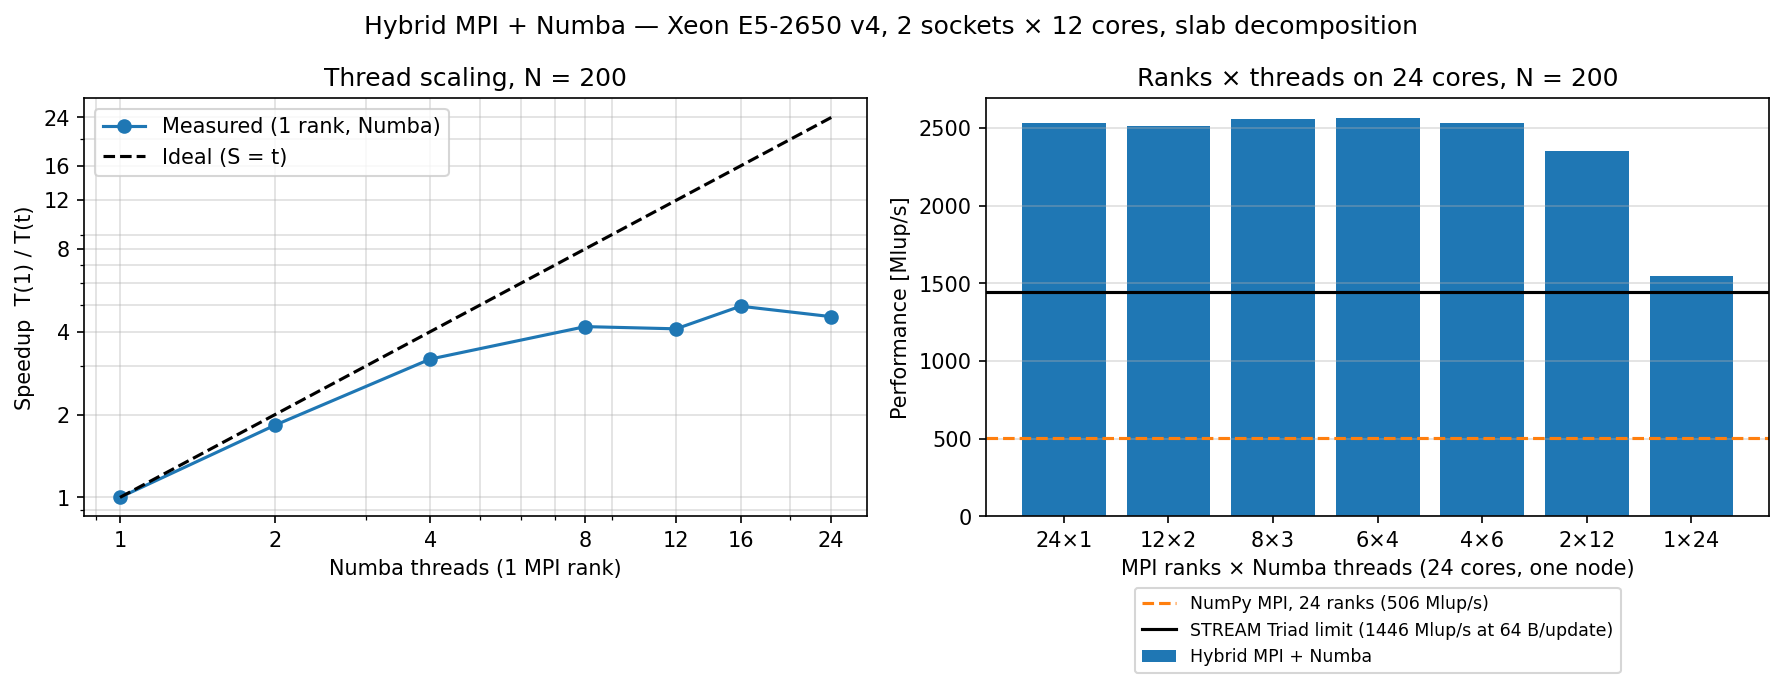
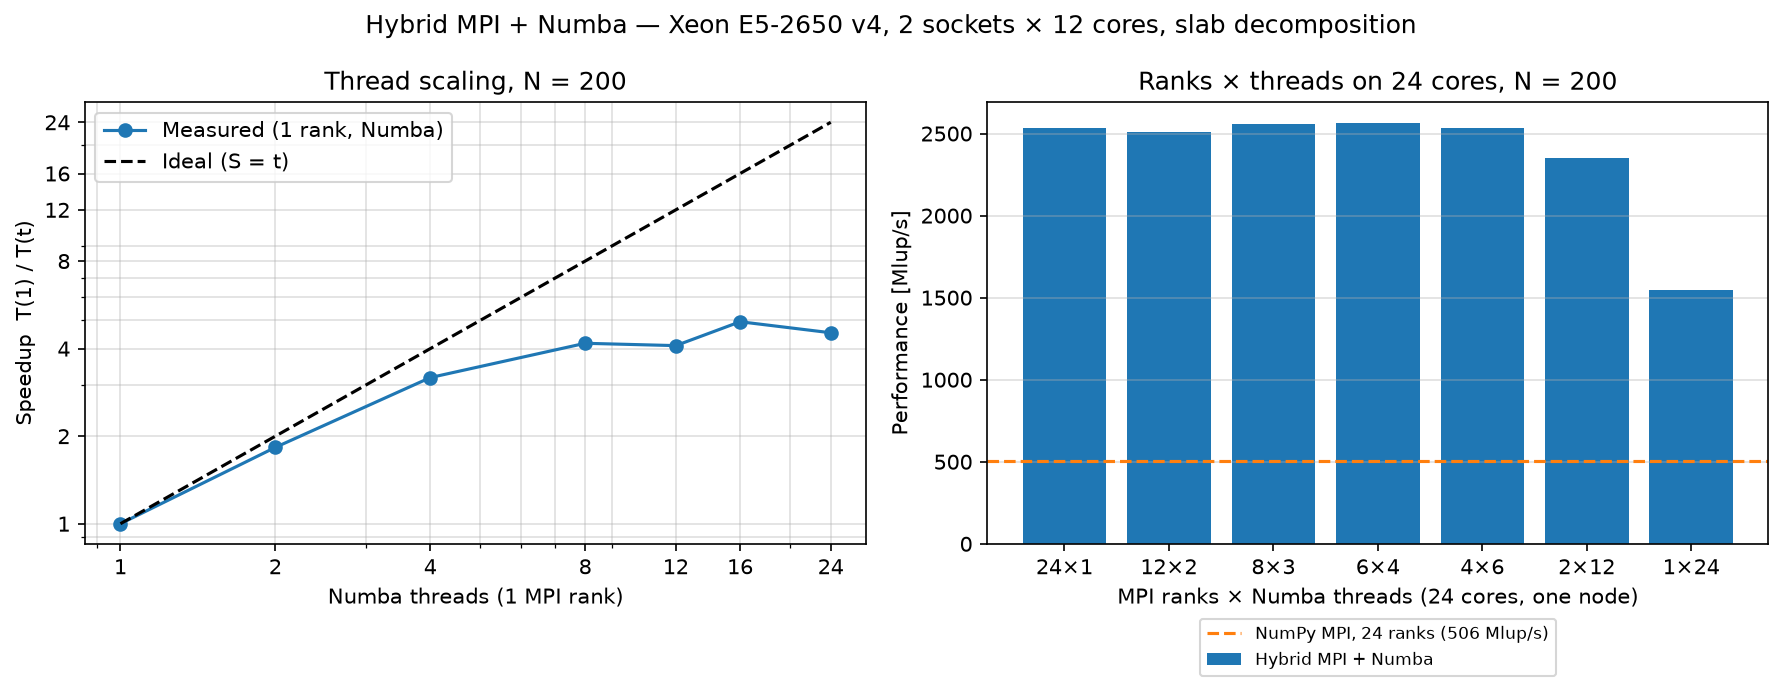
Hybrid plot: remove STREAM reference line for now

diff --git a/plotting/plot_hybrid.py b/plotting/plot_hybrid.py
@@ -3,13 +3,12 @@
 Usage (from the repo folder):  python3 plotting/plot_hybrid.py
 Reads   results/hybrid.csv       (jobs/hybrid.sub, Numba kernels, slab decomposition)
         results/mpi_decomp.csv   (NumPy kernels, mpi-slab-24x1x1, reference)
-        results/stream.csv       (STREAM Triad, 24 threads, memory-bandwidth limit)
 Writes  plots/hybrid.png
 
 Left:  strong scaling speedup T(1)/T(t) of 1 rank with t Numba threads, log-log,
        with the ideal line S = t.
 Right: Mlup/s of every ranks x threads mix that uses all 24 cores, against the
-       NumPy MPI solver on 24 ranks and the STREAM limit (Triad MB/s / 64 B per update).
+       NumPy MPI solver on 24 ranks.
 """
 import os
 
@@ -44,9 +43,6 @@ rows = mean_per_config(hybrid)
 # references
 decomp = read("results/mpi_decomp.csv")
 numpy_24 = decomp["mlups"][decomp["impl"] == "mpi-slab-24x1x1"].mean()
-stream = read("results/stream.csv")
-triad_24 = stream["best_MBs"][(stream["kernel"] == "Triad") & (stream["threads"] == CORES)].max()
-stream_mlups = triad_24 / BYTES_PER_LUP          # MB/s / B per update = Mlup/s
 
 fig, (ax1, ax2) = plt.subplots(1, 2, figsize=(12, 4.8))
 
@@ -74,8 +70,6 @@ labels = [f"{r}×{t}" for r, t, _ in mixes]
 ax2.bar(labels, [m for _, _, m in mixes], color="C0", label="Hybrid MPI + Numba")
 ax2.axhline(numpy_24, color="C1", linestyle="--",
             label=f"NumPy MPI, 24 ranks ({numpy_24:.0f} Mlup/s)")
-ax2.axhline(stream_mlups, color="k", linestyle="-",
-            label=f"STREAM Triad limit ({stream_mlups:.0f} Mlup/s at {BYTES_PER_LUP} B/update)")
 ax2.set_xlabel("MPI ranks × Numba threads (24 cores, one node)")
 ax2.set_ylabel("Performance [Mlup/s]")
 ax2.set_title(f"Ranks × threads on 24 cores, N = {N}")
